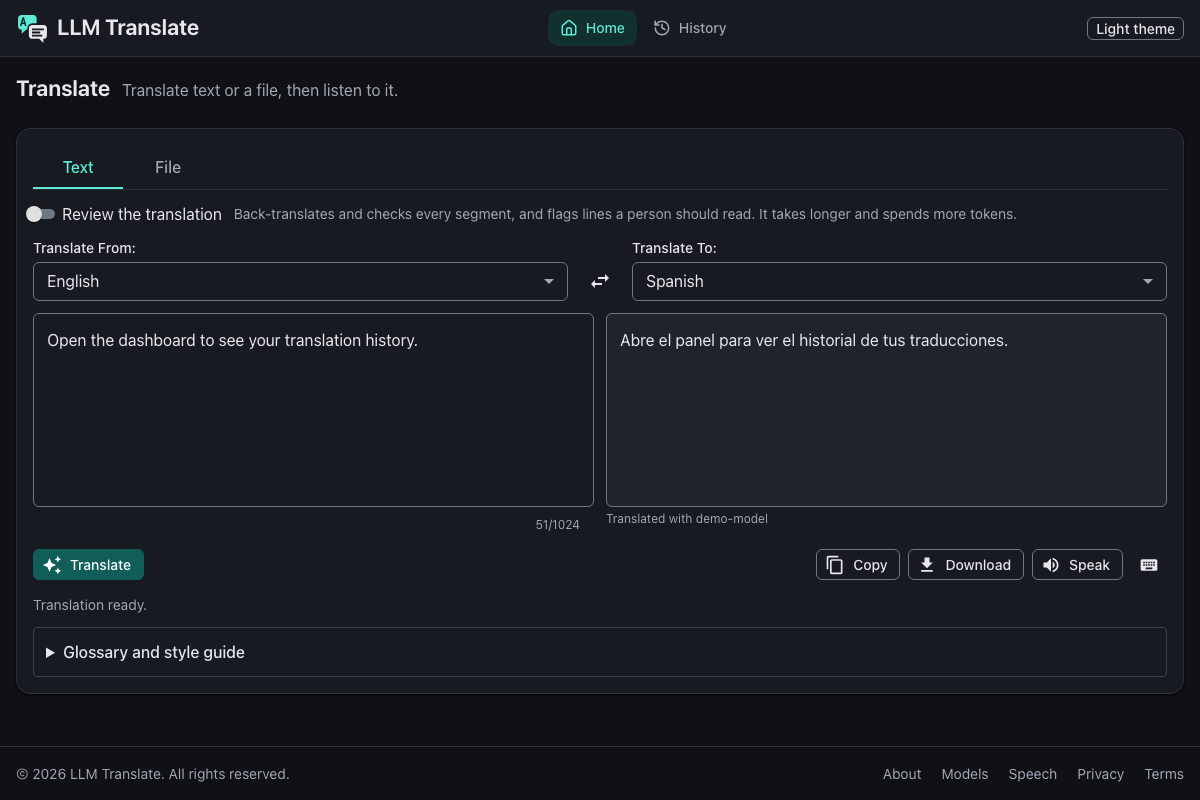
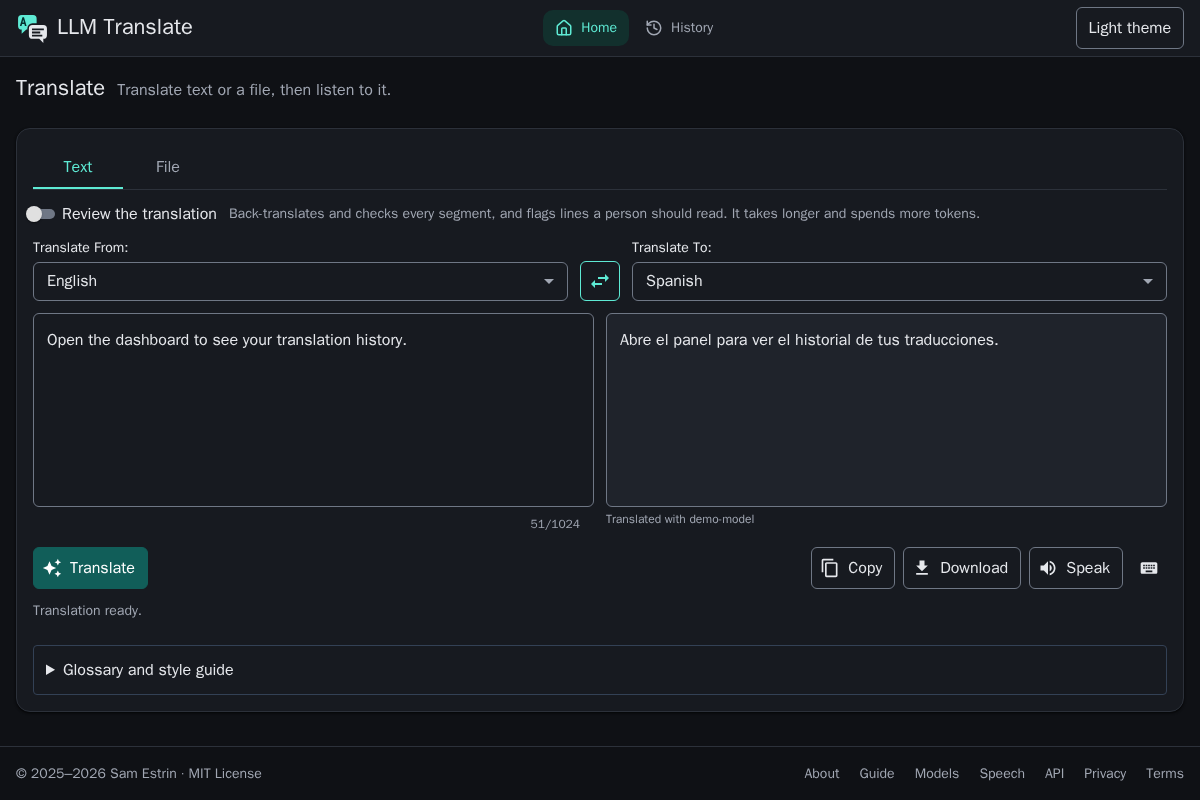
Docs: changelog the shell sizes and recapture the README screenshots (EST-9358) (#88)
Changelog the epic 09 shell sizes (theme toggle, key panel, buttons, refreshed screenshots) and recapture the three README PNGs at the new sizes; demo.gif unchanged.

diff --git a/CHANGELOG.md b/CHANGELOG.md
@@ -12,6 +12,9 @@ All notable changes to this project are recorded here. The format follows [Keep 
 ### Changed
 
 - Buttons are the demo shell's size: the Translate buttons and the other page buttons are 42 px tall with 16 px text (the filled accent when enabled, the neutral disabled colour otherwise), and small buttons such as Choose a file, History copy/speak and the Guide's Copy buttons are 32 px, 44 px on a phone. The pointer over a disabled filled or outlined button shows the not-allowed cursor. (EST-9355)
+- The header's theme toggle is the shell's button size too: 42 px tall with 16 px text instead of a small button, so it lines up with the 56 px header bar and the other shell buttons at both desktop and phone widths. (EST-9354)
+- The model access panel follows the shell: the Provider select, the key field and the Clear button are 42 px tall (set in the panel itself, so the language pickers keep their 40 px), the panel is one wrapped row at 1280 px and a full-width stack below 48rem, and its public-demo notice is muted text. (EST-9356)
+- The README's three screenshots (light, dark and phone width) are recaptured at the new shell sizes; the demo GIF is unchanged. (EST-9358)
 - The README links the live demo at https://translate.samestrin.com and says how to try it: with your own OpenAI, OpenRouter, Synthetic or Alibaba (DashScope) key, or a demo code on request. (EST-8695)
 - The footer's "MIT License" is a plain link to the repo's LICENSE on GitHub (https://github.com/samestrin/llm-translate/blob/main/LICENSE), opening in the same tab. It is the only external URL in the footer besides the app's own API reference — a test guards that every other footer link stays on an app route — and the demo neither packages nor serves the licence file, nor loads anything for the link (demo-shell spec, EST-9380). (EST-9384)
 
